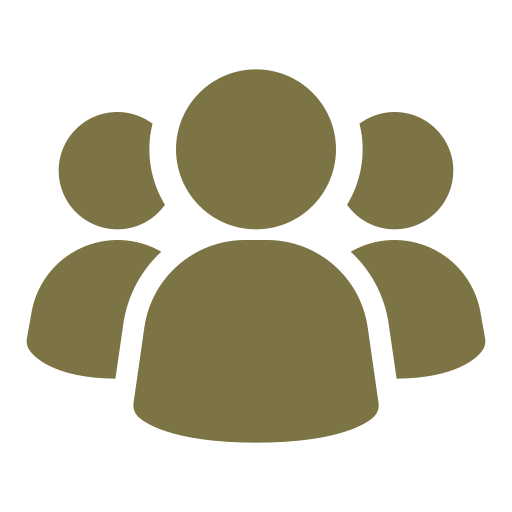
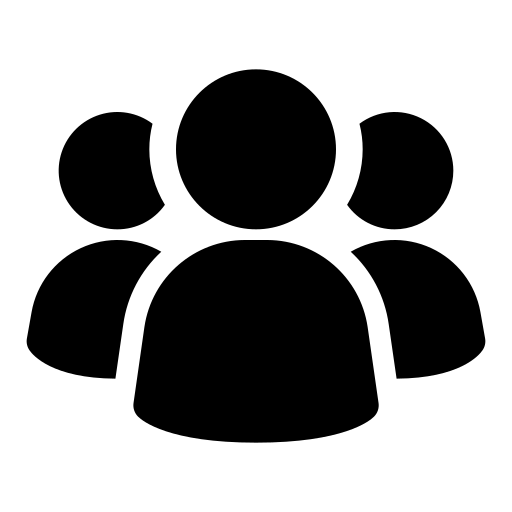
new-black-color-design-footer

diff --git a/public/assets/front/css/style.css b/public/assets/front/css/style.css
@@ -71,6 +71,7 @@
     --bg-light: #F7F9FC !important;
     --gradient-bg: linear-gradient(90deg, var(--color-primary) 14.17%, var(--color-primary-shade) 94.83%);
     --theme-color: #000000;
+    --background-color: #6a6a6a0d;
 }
 
 /* -----------------------------------------
@@ -3952,7 +3953,7 @@ Lazyload CSS
 }
 
 .footer-area .footer-widget h4 {
-    color: rgb(0, 0, 0);
+    color: rgb(255, 255, 255);
     text-transform: uppercase;
     font-weight: bold !important;
     letter-spacing: 1px;
@@ -4009,11 +4010,11 @@ Lazyload CSS
     /* overflow: hidden; */
     margin-bottom: 20px;
     line-height: 1;
-    color: var(--color-gray-1);
+    color: white;
 }
 
 .footer-area .footer-widget .footer-links li a {
-    color: rgb(0, 0, 0);
+    color: rgb(255, 255, 255);
     /* font-weight: 100; */
     font-size: 16px;
     font-weight: 600;
@@ -5912,7 +5913,7 @@ p.cookie-consent__message * {
 
 
 .new-aps-sections {
-    background-color: #F8F7F2;
+    background-color: var(--background-color);
     /* padding-top: 44px; */
 }
 
@@ -6750,7 +6751,7 @@ p.cookie-consent__message * {
 
 .SL-links-title {
     font-size: 23px;
-    color: rgb(0, 0, 0);
+    color: rgb(255, 255, 255);
     font-weight: 600 !important;
     font-size: 16px;
     margin: 10px 0px;
@@ -6778,12 +6779,12 @@ p.cookie-consent__message * {
 }
 
 .social-links-btn a {
-    background-color: var(--theme-color);
+    background-color: white;
     height: 35px;
     width: 35px;
     border-radius: 10px;
     font-size: 16px;
-    color: rgb(255, 255, 255);
+    color: rgb(0, 0, 0);
     display: flex;
     justify-content: center;
     align-items: center;
@@ -6792,7 +6793,7 @@ p.cookie-consent__message * {
 .mew-lines-add {
     font-size: 16px;
     letter-spacing: 1px;
-    color: rgb(0, 0, 0);
+    color: rgb(255, 255, 255);
 }
 
 
@@ -7702,7 +7703,7 @@ p.cookie-consent__message * {
 .b-s-r-div {
     border: 1px solid #dcdcdc;
     box-shadow: 0px 0px 10px rgba(0, 0, 0, 0.05);
-    background-color: #F8F7F1;
+    background-color: var(--background-color);
     padding: 20px;
     border-radius: 20px;
     height: 100%;
@@ -7779,7 +7780,7 @@ p.cookie-consent__message * {
     height: 80px;
     width: 80px;
     padding: 15px;
-    background-color: #F9F6ED;
+    background-color: var(--background-color);
     border-left: 1px solid #92844425;
     border-bottom: 1px solid #92844425;
     position: absolute;
@@ -7982,6 +7983,7 @@ button:hover {
     border: white;
     box-shadow: 0px 0px 10px rgba(0, 0, 0, 0.1);
     border-radius: 20px;
+    background-color: white;
     margin-top: 10px;
     justify-content: space-between;
     align-items: center;
@@ -8008,7 +8010,7 @@ button:hover {
     width: 70px;
     padding: 15px;
     border-radius: 50%;
-    background-color: #F8F4E8;
+    background-color: var(--background-color);
 }
 
 .abs-r-i-des-div h6 {
@@ -8077,7 +8079,7 @@ button:hover {
 .header-title-footer {
     font-weight: 800;
     font-size: 45px;
-    color: #000000;
+    color: #ffffff;
     line-height: 1.4;
 }
 
@@ -8091,7 +8093,7 @@ button:hover {
 .header-description {
     font-weight: 400;
     font-size: 14px;
-    color: #000000;
+    color: #ffffff;
     width: 80%;
     margin-bottom: 0;
 }

diff --git a/resources/views/frontend/home/index-v1.blade.php b/resources/views/frontend/home/index-v1.blade.php
@@ -1064,13 +1064,12 @@
 
 
 
-    <section class="buy-rent-sale-section pt-30 pb-30">
+    <!-- <section class="buy-rent-sale-section pt-30 pb-30">
         <div class="container">
 
             <div class="section-title title-inline mb-3 aos-init aos-animate d-flex" data-aos="fade-up">
                 <h2 class="title">For all your luxury real estate needs, We have got you covered!</h2>
-                <!-- <p style="font-size: 13px; line-height : 1.2;">From finding your dream home with all the luxury amenities to seamless transactions, trust us to handle
-                    every detail with care and expertise.</p> -->
+               
             </div>
 
             <div class="row BSR-main-div">
@@ -1107,9 +1106,9 @@
                 </div>
             </div>
         </div>
-    </section>
+    </section> -->
 
-    <section class="why-dlal-dection pb-30">
+    <section class="why-dlal-dection pb-30" style="padding-top: 17px;">
         <div class="container">
             <div class="section-title title-inline  aos-init aos-animate d-flex " style="flex-direction: column;"
                 data-aos="fade-up">

diff --git a/resources/views/frontend/partials/footer/footer-v1.blade.php b/resources/views/frontend/partials/footer/footer-v1.blade.php
@@ -1,10 +1,9 @@
 <!-- Footer-area start -->
 @if ($footerSectionStatus == 1)
 
-<footer class="footer-area" style="background-color : #F9F6EE;">
+<footer class="footer-area" style="background-color : black;">
     <div class=" pt-40 pb-40">
         <div class="container">
-
             <div class="row footer-row">
                 <div class="col-lg-7 footer-left">
                     <div class="footer-left-text">
@@ -151,7 +150,7 @@
     </div>
     <div class="copy-right-area ">
         <div class="container">
-            <div class="copy-right-content" style="color: black;">
+            <div class="copy-right-content" style="color: white;">
                 <span> {!! @$footerInfo->copyright_text !!} </span>
             </div>
         </div>
